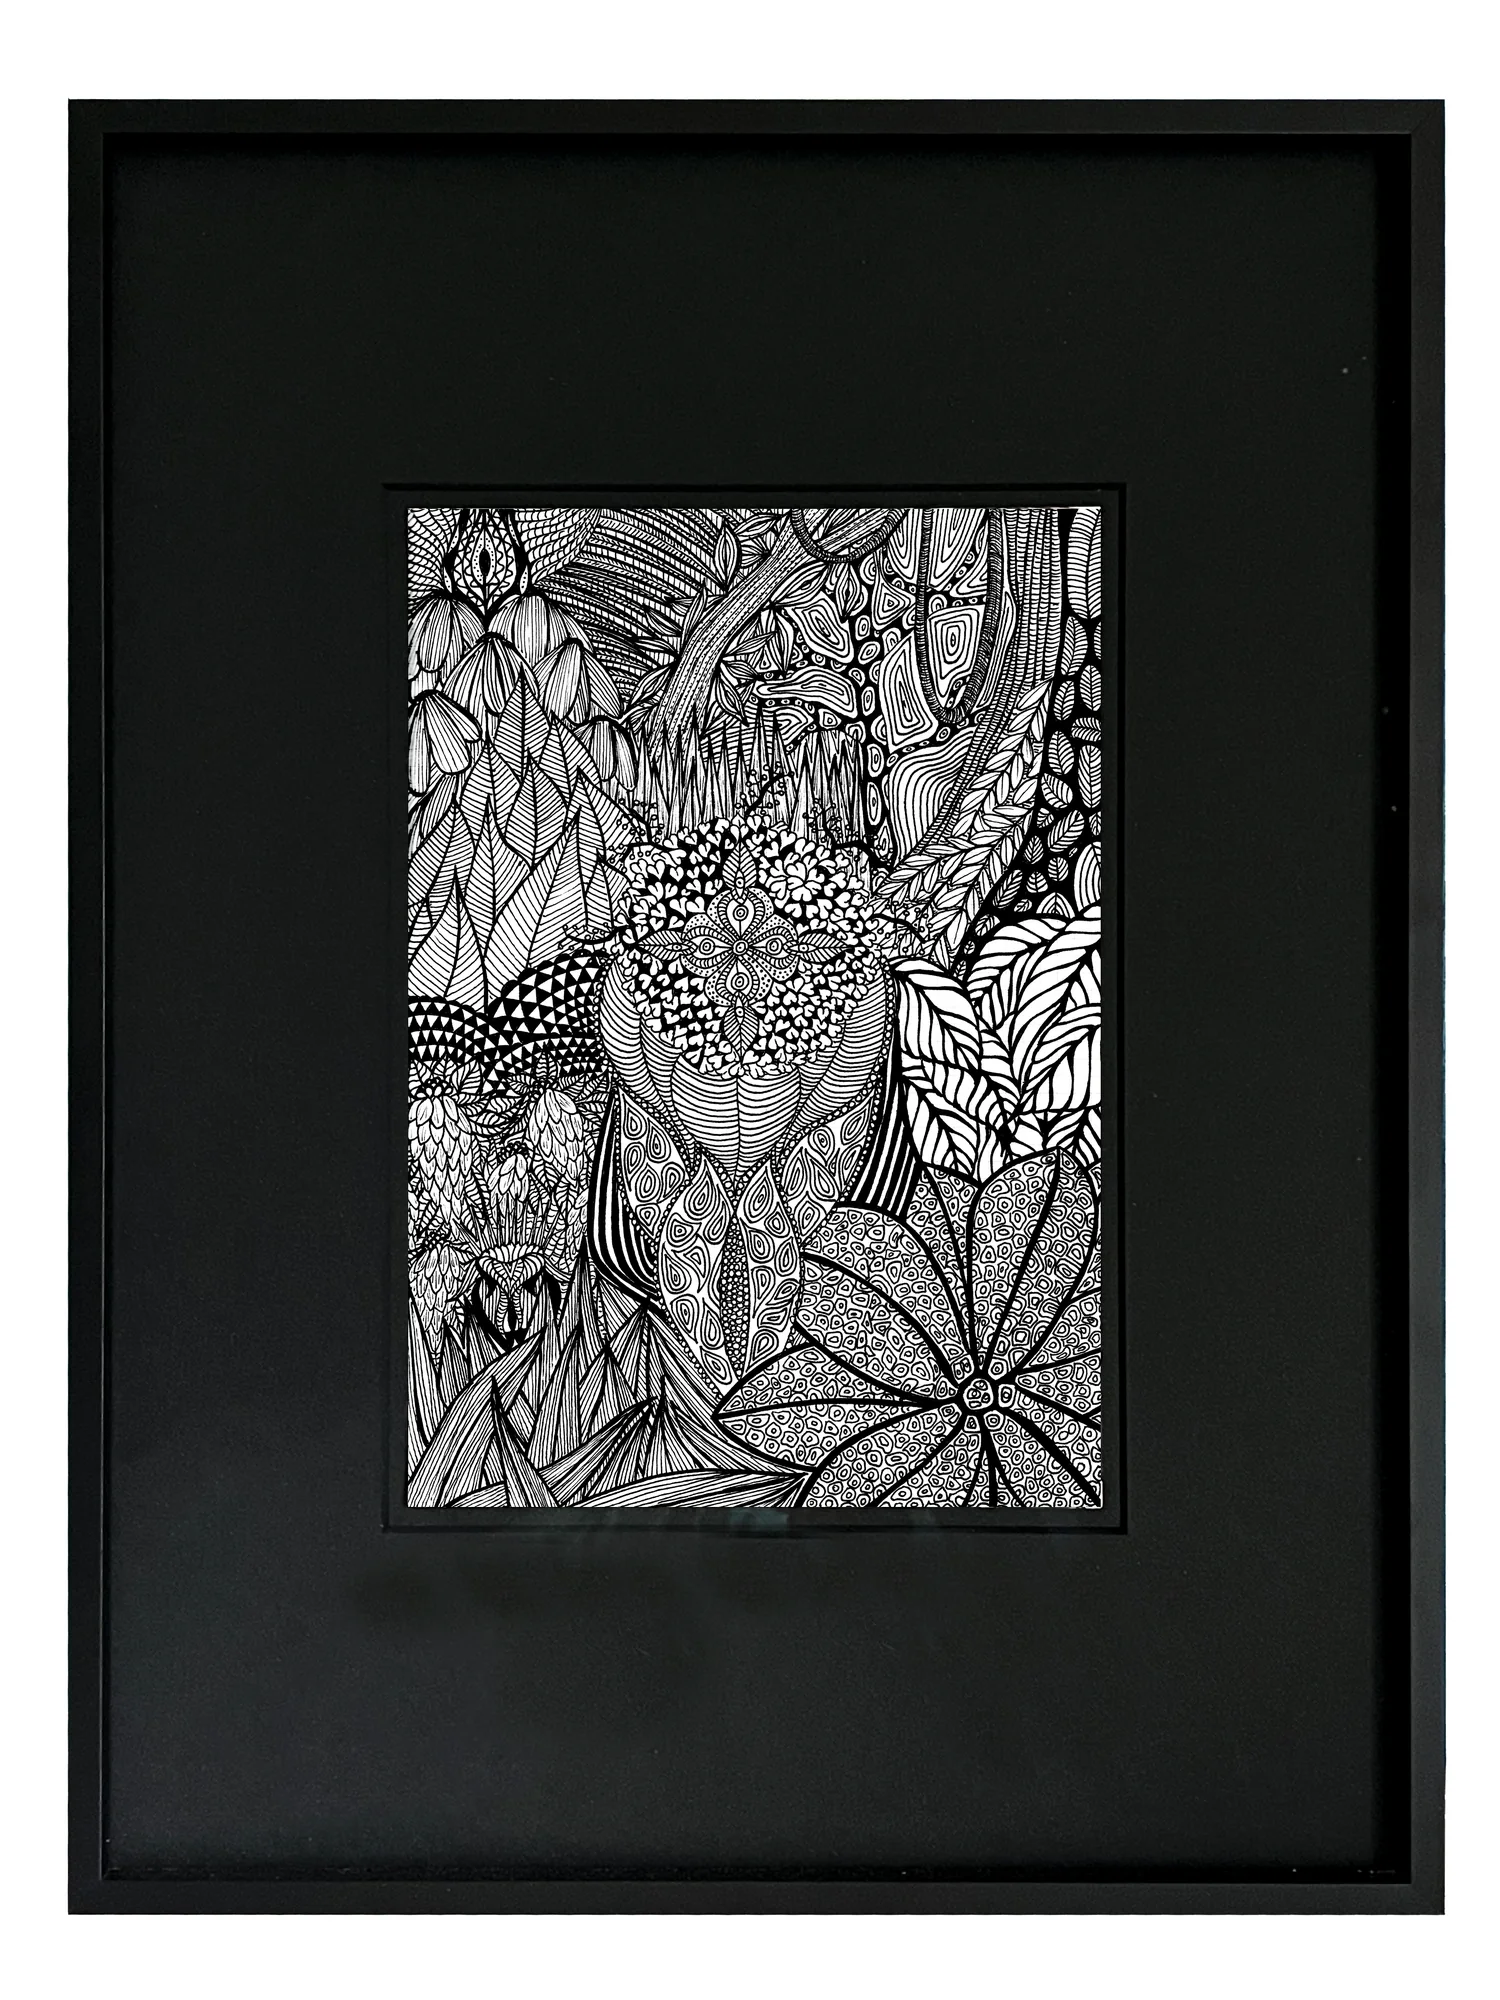
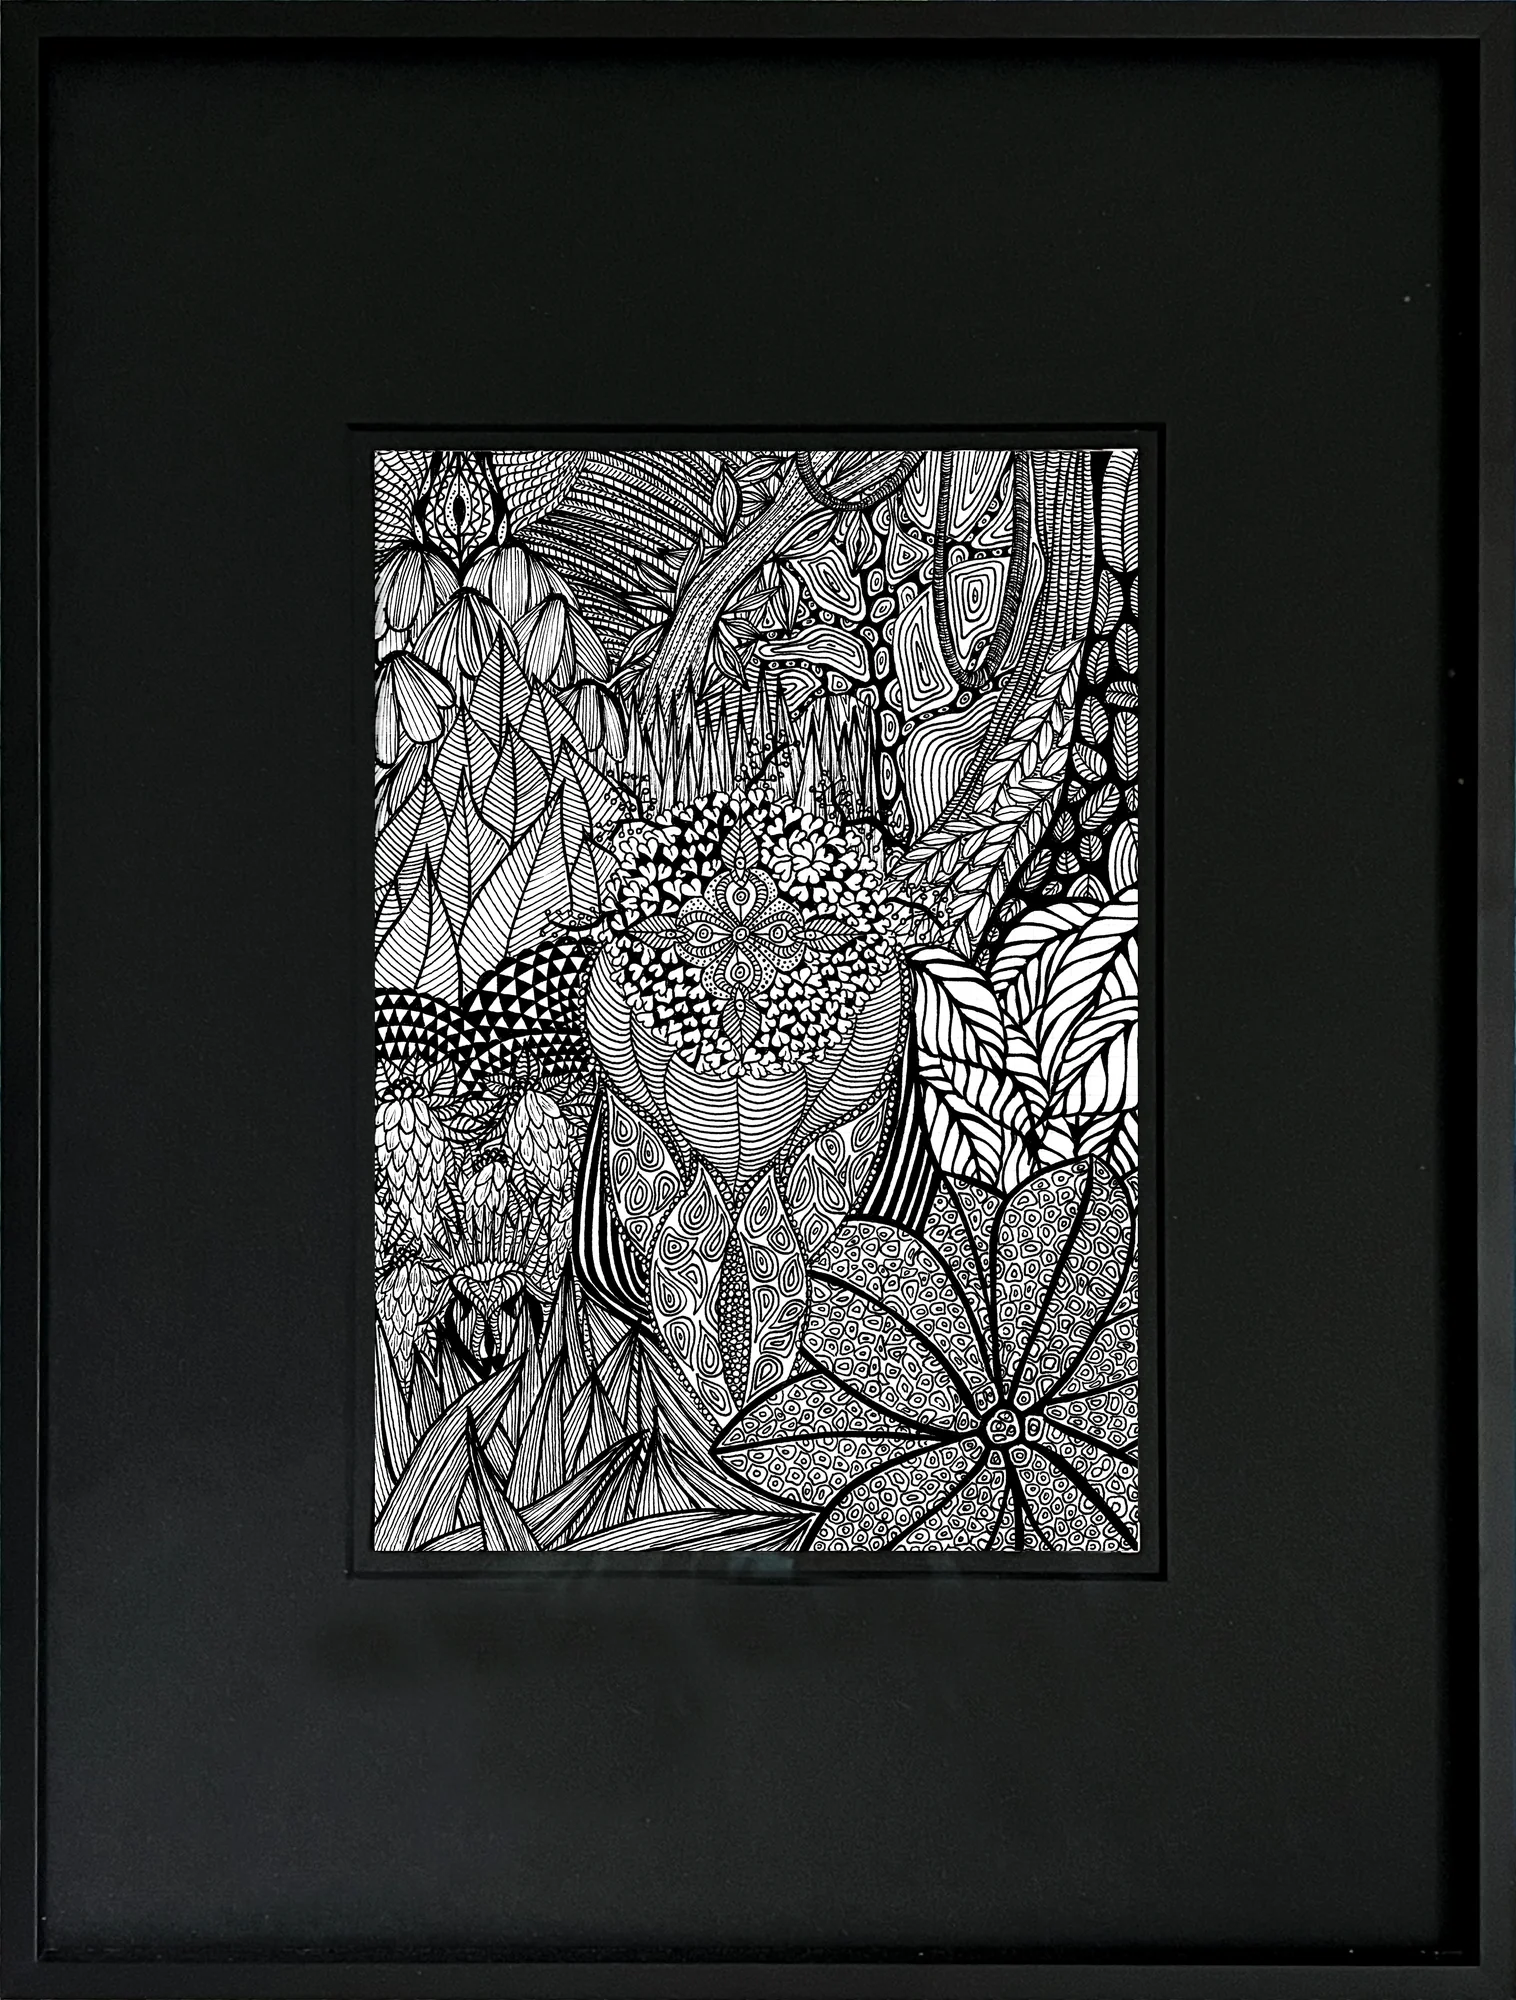
Retours 18.09 (suite) : héros d'intro, images recadrées, About aligné, Contact
- Galeries (Origins, Fantasmagoria, Precious Nature, Observations) : premier tableau placé à droite du texte d'intro (sans loupe), le reste dans la liste
- Origins : images recadrées Bara, Palovolador, Roni (format resserré)
- About : portrait aligné au paragraphe et au bord droit de la vidéo
- Contact : ne garder que email, téléphone, instagram

Claude-Session: https://claude.ai/code/session_01AQhj37W9JJ4aYdSLP3vmvi

diff --git a/origins.html b/origins.html
@@ -165,6 +165,19 @@
     .about-grid{flex-direction:column;gap:26px;} .portrait-slot{flex:none;width:200px;}
     .ed-grid{grid-template-columns:1fr;gap:34px;}
   }
+
+  /* premier tableau à droite du texte d'intro (sans loupe) */
+  .intro-inner{align-items:flex-start;}
+  .intro-work{flex:1 1 auto;display:flex;flex-direction:column;align-items:flex-start;max-width:58%;}
+  .intro-work .work-media{position:relative;background:var(--paper);}
+  .intro-work .work-media.hbound{height:min(58vh,540px);width:auto;}
+  .intro-work .work-media.wbound{height:auto;width:min(480px,46vw);}
+  .intro-work .work-media img{display:block;width:100%;height:100%;object-fit:cover;}
+  .intro-work .caption-row{margin-top:18px;width:auto;}
+  @media(max-width:900px){
+    .intro-work{max-width:100%;width:100%;margin-top:18px;}
+    .intro-work .work-media.hbound,.intro-work .work-media.wbound{height:auto;width:min(420px,90vw);}
+  }
 </style>
 </head>
 <body>
@@ -218,15 +231,7 @@
       <h1>Origins</h1>
       <p>Origins traces the emergence of a visual language initially shaped by the memory of the forest. Vegetal forms, figures and interconnected structures gradually move beyond landscape, becoming autonomous systems in which observation, memory and imagination begin to merge.</p>
     </div>
-  </div>
-  <button class="down" id="toworks" aria-label="Scroll to works">
-    <svg width="46" height="24" viewBox="0 0 46 24" fill="none"><path d="M2 2 L23 21 L44 2" stroke-width="2.2" fill="none"/></svg>
-  </button>
-</section>
-
-<main id="works">
-  <figure class="work" id="primero">
-    <div class="work-inner">
+      <figure class="intro-work">
       <div class="work-media hbound" style="--ar:1075/1417;">
         <img src="assets/or-primero.webp" alt="PRIMERO — Rinaldo Marasco">
       </div>
@@ -237,12 +242,18 @@
           <div class="c-tech">Ink</div>
         </figcaption>
       </div>
-    </div>
-  </figure>
+    </figure>
+  </div>
+  <button class="down" id="toworks" aria-label="Scroll to works">
+    <svg width="46" height="24" viewBox="0 0 46 24" fill="none"><path d="M2 2 L23 21 L44 2" stroke-width="2.2" fill="none"/></svg>
+  </button>
+</section>
+
+<main id="works">
 
   <figure class="work" id="bara">
     <div class="work-inner">
-      <div class="work-media hbound" style="--ar:1500/2000;">
+      <div class="work-media hbound" style="--ar:1516/2000;">
         <img src="assets/or-bara.webp" alt="BARA — Rinaldo Marasco">
       </div>
       <div class="caption-row">
@@ -257,7 +268,7 @@
 
   <figure class="work" id="roni">
     <div class="work-inner">
-      <div class="work-media hbound" style="--ar:1500/2000;">
+      <div class="work-media hbound" style="--ar:1517/2000;">
         <img src="assets/or-roni.webp" alt="RONI — Rinaldo Marasco">
       </div>
       <div class="caption-row">
@@ -272,7 +283,7 @@
 
   <figure class="work" id="palovolador">
     <div class="work-inner">
-      <div class="work-media hbound" style="--ar:1500/2000;">
+      <div class="work-media hbound" style="--ar:1516/2000;">
         <img src="assets/or-palovolador.webp" alt="PALOVOLADOR — Rinaldo Marasco">
       </div>
       <div class="caption-row">

diff --git a/about.html b/about.html
@@ -139,12 +139,13 @@
   /* pages texte (about/contact/editions/exhibitions) */
   .textpage{padding:150px var(--edge) 40px var(--content-x);max-width:calc(var(--content-x) + 900px);}
   .textpage h1{font-size:30px;font-weight:700;line-height:1.12;margin-bottom:28px;}
+  .textpage.about{max-width:1280px;}
   .about-grid{display:flex;gap:56px;align-items:flex-start;}
-  .about-bio{max-width:40em;}
+  .about-bio{flex:0 1 40em;max-width:40em;}
   .about-bio p{font-size:var(--fs);line-height:var(--lh);color:#2b2b2b;text-align:justify;hyphens:auto;-webkit-hyphens:auto;}
   .about-bio p + p{margin-top:16px;}
-  .portrait{flex:0 0 380px;width:380px;height:auto;display:block;box-shadow:0 18px 45px rgba(0,0,0,.08);}
-  .about-film{margin-top:52px;max-width:960px;}
+  .portrait{margin-left:auto;align-self:flex-start;width:min(520px,44%);height:auto;display:block;box-shadow:0 18px 45px rgba(0,0,0,.08);}
+  .about-film{margin-top:52px;width:100%;}
   .about-film video{width:100%;height:auto;display:block;background:#000;box-shadow:0 18px 45px rgba(0,0,0,.09);}
   .about-film figcaption{margin-top:10px;font-size:13px;color:var(--faint);}
   .lede{font-size:var(--fs);line-height:var(--lh);color:#2b2b2b;max-width:46em;margin-bottom:40px;}
@@ -165,7 +166,7 @@
   @media(max-width:900px){
     header nav{display:none;} .burger{display:flex;}
     .textpage{padding:120px 20px 30px 20px;}
-    .about-grid{flex-direction:column;gap:26px;} .portrait{flex:none;width:100%;max-width:340px;}
+    .about-grid{flex-direction:column;gap:26px;} .portrait{margin-left:0;align-self:stretch;width:100%;max-width:340px;}
     .ed-grid{grid-template-columns:1fr;gap:34px;}
   }
 </style>
@@ -215,10 +216,10 @@
   <a class="mm-top" href="contact.html">Contact</a>
 </div>
 
-<main class="textpage">
+<main class="textpage about">
+  <h1>About</h1>
   <div class="about-grid">
     <div class="about-bio">
-      <h1>About</h1>
       <p>Rinaldo Marasco is a Swiss-Italian multidisciplinary artist working across drawing, sculpture and other visual forms.</p>
       <p>His work explores perception, symbolic memory and organic structures through layered compositions that evolve between immediate impact and progressive discovery.</p>
       <p>At first glance, his works often appear through a unified form, a colour or a visual tension. As the gaze remains, they gradually reveal interconnected details, autonomous fragments and internal narratives that invite multiple levels of interpretation.</p>

diff --git a/observations.html b/observations.html
@@ -165,6 +165,19 @@
     .about-grid{flex-direction:column;gap:26px;} .portrait-slot{flex:none;width:200px;}
     .ed-grid{grid-template-columns:1fr;gap:34px;}
   }
+
+  /* premier tableau à droite du texte d'intro (sans loupe) */
+  .intro-inner{align-items:flex-start;}
+  .intro-work{flex:1 1 auto;display:flex;flex-direction:column;align-items:flex-start;max-width:58%;}
+  .intro-work .work-media{position:relative;background:var(--paper);}
+  .intro-work .work-media.hbound{height:min(58vh,540px);width:auto;}
+  .intro-work .work-media.wbound{height:auto;width:min(480px,46vw);}
+  .intro-work .work-media img{display:block;width:100%;height:100%;object-fit:cover;}
+  .intro-work .caption-row{margin-top:18px;width:auto;}
+  @media(max-width:900px){
+    .intro-work{max-width:100%;width:100%;margin-top:18px;}
+    .intro-work .work-media.hbound,.intro-work .work-media.wbound{height:auto;width:min(420px,90vw);}
+  }
 </style>
 </head>
 <body>
@@ -218,15 +231,7 @@
       <h1>Observations</h1>
       <p>Observations gathers fragments encountered through attention: structures, presences, materials and moments isolated from their original context. These images do not document a subject. They reveal recurring ways of seeing and form part of the broader visual memory from which the work develops.</p>
     </div>
-  </div>
-  <button class="down" id="toworks" aria-label="Scroll to works">
-    <svg width="46" height="24" viewBox="0 0 46 24" fill="none"><path d="M2 2 L23 21 L44 2" stroke-width="2.2" fill="none"/></svg>
-  </button>
-</section>
-
-<main id="works">
-  <figure class="work" id="ob-sarah">
-    <div class="work-inner">
+      <figure class="intro-work">
       <div class="work-media wbound" style="--ar:1600/1156;">
         <img src="assets/ob-sarah.webp" alt="SARAH — Rinaldo Marasco">
       </div>
@@ -236,8 +241,14 @@
           <div class="c-tech">Photography</div>
         </figcaption>
       </div>
-    </div>
-  </figure>
+    </figure>
+  </div>
+  <button class="down" id="toworks" aria-label="Scroll to works">
+    <svg width="46" height="24" viewBox="0 0 46 24" fill="none"><path d="M2 2 L23 21 L44 2" stroke-width="2.2" fill="none"/></svg>
+  </button>
+</section>
+
+<main id="works">
 
   <figure class="work" id="ob-depression">
     <div class="work-inner">

diff --git a/fantasmagoria.html b/fantasmagoria.html
@@ -165,6 +165,19 @@
     .about-grid{flex-direction:column;gap:26px;} .portrait-slot{flex:none;width:200px;}
     .ed-grid{grid-template-columns:1fr;gap:34px;}
   }
+
+  /* premier tableau à droite du texte d'intro (sans loupe) */
+  .intro-inner{align-items:flex-start;}
+  .intro-work{flex:1 1 auto;display:flex;flex-direction:column;align-items:flex-start;max-width:58%;}
+  .intro-work .work-media{position:relative;background:var(--paper);}
+  .intro-work .work-media.hbound{height:min(58vh,540px);width:auto;}
+  .intro-work .work-media.wbound{height:auto;width:min(480px,46vw);}
+  .intro-work .work-media img{display:block;width:100%;height:100%;object-fit:cover;}
+  .intro-work .caption-row{margin-top:18px;width:auto;}
+  @media(max-width:900px){
+    .intro-work{max-width:100%;width:100%;margin-top:18px;}
+    .intro-work .work-media.hbound,.intro-work .work-media.wbound{height:auto;width:min(420px,90vw);}
+  }
 </style>
 </head>
 <body>
@@ -218,15 +231,7 @@
       <h1>Fantasmagoria</h1>
       <p>Fantasmagoria explores the unstable space between colour, form and projection. The image is never entirely given: it is assembled by the viewer, whose imagination transforms fragments and visual tensions into personal figures, scenes and narratives.</p>
     </div>
-  </div>
-  <button class="down" id="toworks" aria-label="Scroll to works">
-    <svg width="46" height="24" viewBox="0 0 46 24" fill="none"><path d="M2 2 L23 21 L44 2" stroke-width="2.2" fill="none"/></svg>
-  </button>
-</section>
-
-<main id="works">
-  <figure class="work">
-    <div class="work-inner">
+      <figure class="intro-work">
       <div class="work-media wbound" style="--ar:1400/1400;">
         <img src="assets/fanta-daniela.webp" alt="Daniela — Rinaldo Marasco">
       </div>
@@ -237,8 +242,14 @@
           <div class="c-tech">Photography and digital composition</div>
         </figcaption>
       </div>
-    </div>
-  </figure>
+    </figure>
+  </div>
+  <button class="down" id="toworks" aria-label="Scroll to works">
+    <svg width="46" height="24" viewBox="0 0 46 24" fill="none"><path d="M2 2 L23 21 L44 2" stroke-width="2.2" fill="none"/></svg>
+  </button>
+</section>
+
+<main id="works">
 
   <figure class="work">
     <div class="work-inner">

diff --git a/precious-nature.html b/precious-nature.html
@@ -165,6 +165,19 @@
     .about-grid{flex-direction:column;gap:26px;} .portrait-slot{flex:none;width:200px;}
     .ed-grid{grid-template-columns:1fr;gap:34px;}
   }
+
+  /* premier tableau à droite du texte d'intro (sans loupe) */
+  .intro-inner{align-items:flex-start;}
+  .intro-work{flex:1 1 auto;display:flex;flex-direction:column;align-items:flex-start;max-width:58%;}
+  .intro-work .work-media{position:relative;background:var(--paper);}
+  .intro-work .work-media.hbound{height:min(58vh,540px);width:auto;}
+  .intro-work .work-media.wbound{height:auto;width:min(480px,46vw);}
+  .intro-work .work-media img{display:block;width:100%;height:100%;object-fit:cover;}
+  .intro-work .caption-row{margin-top:18px;width:auto;}
+  @media(max-width:900px){
+    .intro-work{max-width:100%;width:100%;margin-top:18px;}
+    .intro-work .work-media.hbound,.intro-work .work-media.wbound{height:auto;width:min(420px,90vw);}
+  }
 </style>
 </head>
 <body>
@@ -218,15 +231,7 @@
       <h1>Precious Nature</h1>
       <p>Ongoing sculptural research.</p>
     </div>
-  </div>
-  <button class="down" id="toworks" aria-label="Scroll to works">
-    <svg width="46" height="24" viewBox="0 0 46 24" fill="none"><path d="M2 2 L23 21 L44 2" stroke-width="2.2" fill="none"/></svg>
-  </button>
-</section>
-
-<main id="works">
-  <figure class="work" id="alma">
-    <div class="work-inner">
+      <figure class="intro-work">
       <div class="work-media hbound" style="--ar:946/1417;">
         <img src="assets/sc-alma.webp" alt="ALMA — Rinaldo Marasco">
       </div>
@@ -236,8 +241,14 @@
           <div class="c-tech">Wood, acrylic and resin</div>
         </figcaption>
       </div>
-    </div>
-  </figure>
+    </figure>
+  </div>
+  <button class="down" id="toworks" aria-label="Scroll to works">
+    <svg width="46" height="24" viewBox="0 0 46 24" fill="none"><path d="M2 2 L23 21 L44 2" stroke-width="2.2" fill="none"/></svg>
+  </button>
+</section>
+
+<main id="works">
 
   <figure class="work" id="golden-pastek">
     <div class="work-inner">

diff --git a/contact.html b/contact.html
@@ -217,16 +217,9 @@
 <main class="textpage">
   <h1>Contact</h1>
   <div class="contact-block">
-    <div class="row">Studio inquiries</div>
-    <div class="row">Collector inquiries</div>
-    <div class="row">Exhibition and institutional inquiries</div>
-    <div class="row">Press</div>
-  </div>
-  <div class="contact-block">
     <div class="row"><a href="mailto:rinaldo@rj41.ch">rinaldo@rj41.ch</a></div>
     <div class="row"><a href="tel:+41796821697">+41 79 682 16 97</a></div>
-    <div class="row"><a href="https://instagram.com/rinaldo_marasco" target="_blank" rel="noopener">@rinaldo_marasco</a></div>
-    <div class="row">Lausanne, Switzerland</div>
+    <div class="row">insta: <a href="https://instagram.com/rinaldo_marasco" target="_blank" rel="noopener">@rinaldo_marasco</a></div>
   </div>
 </main>
 
